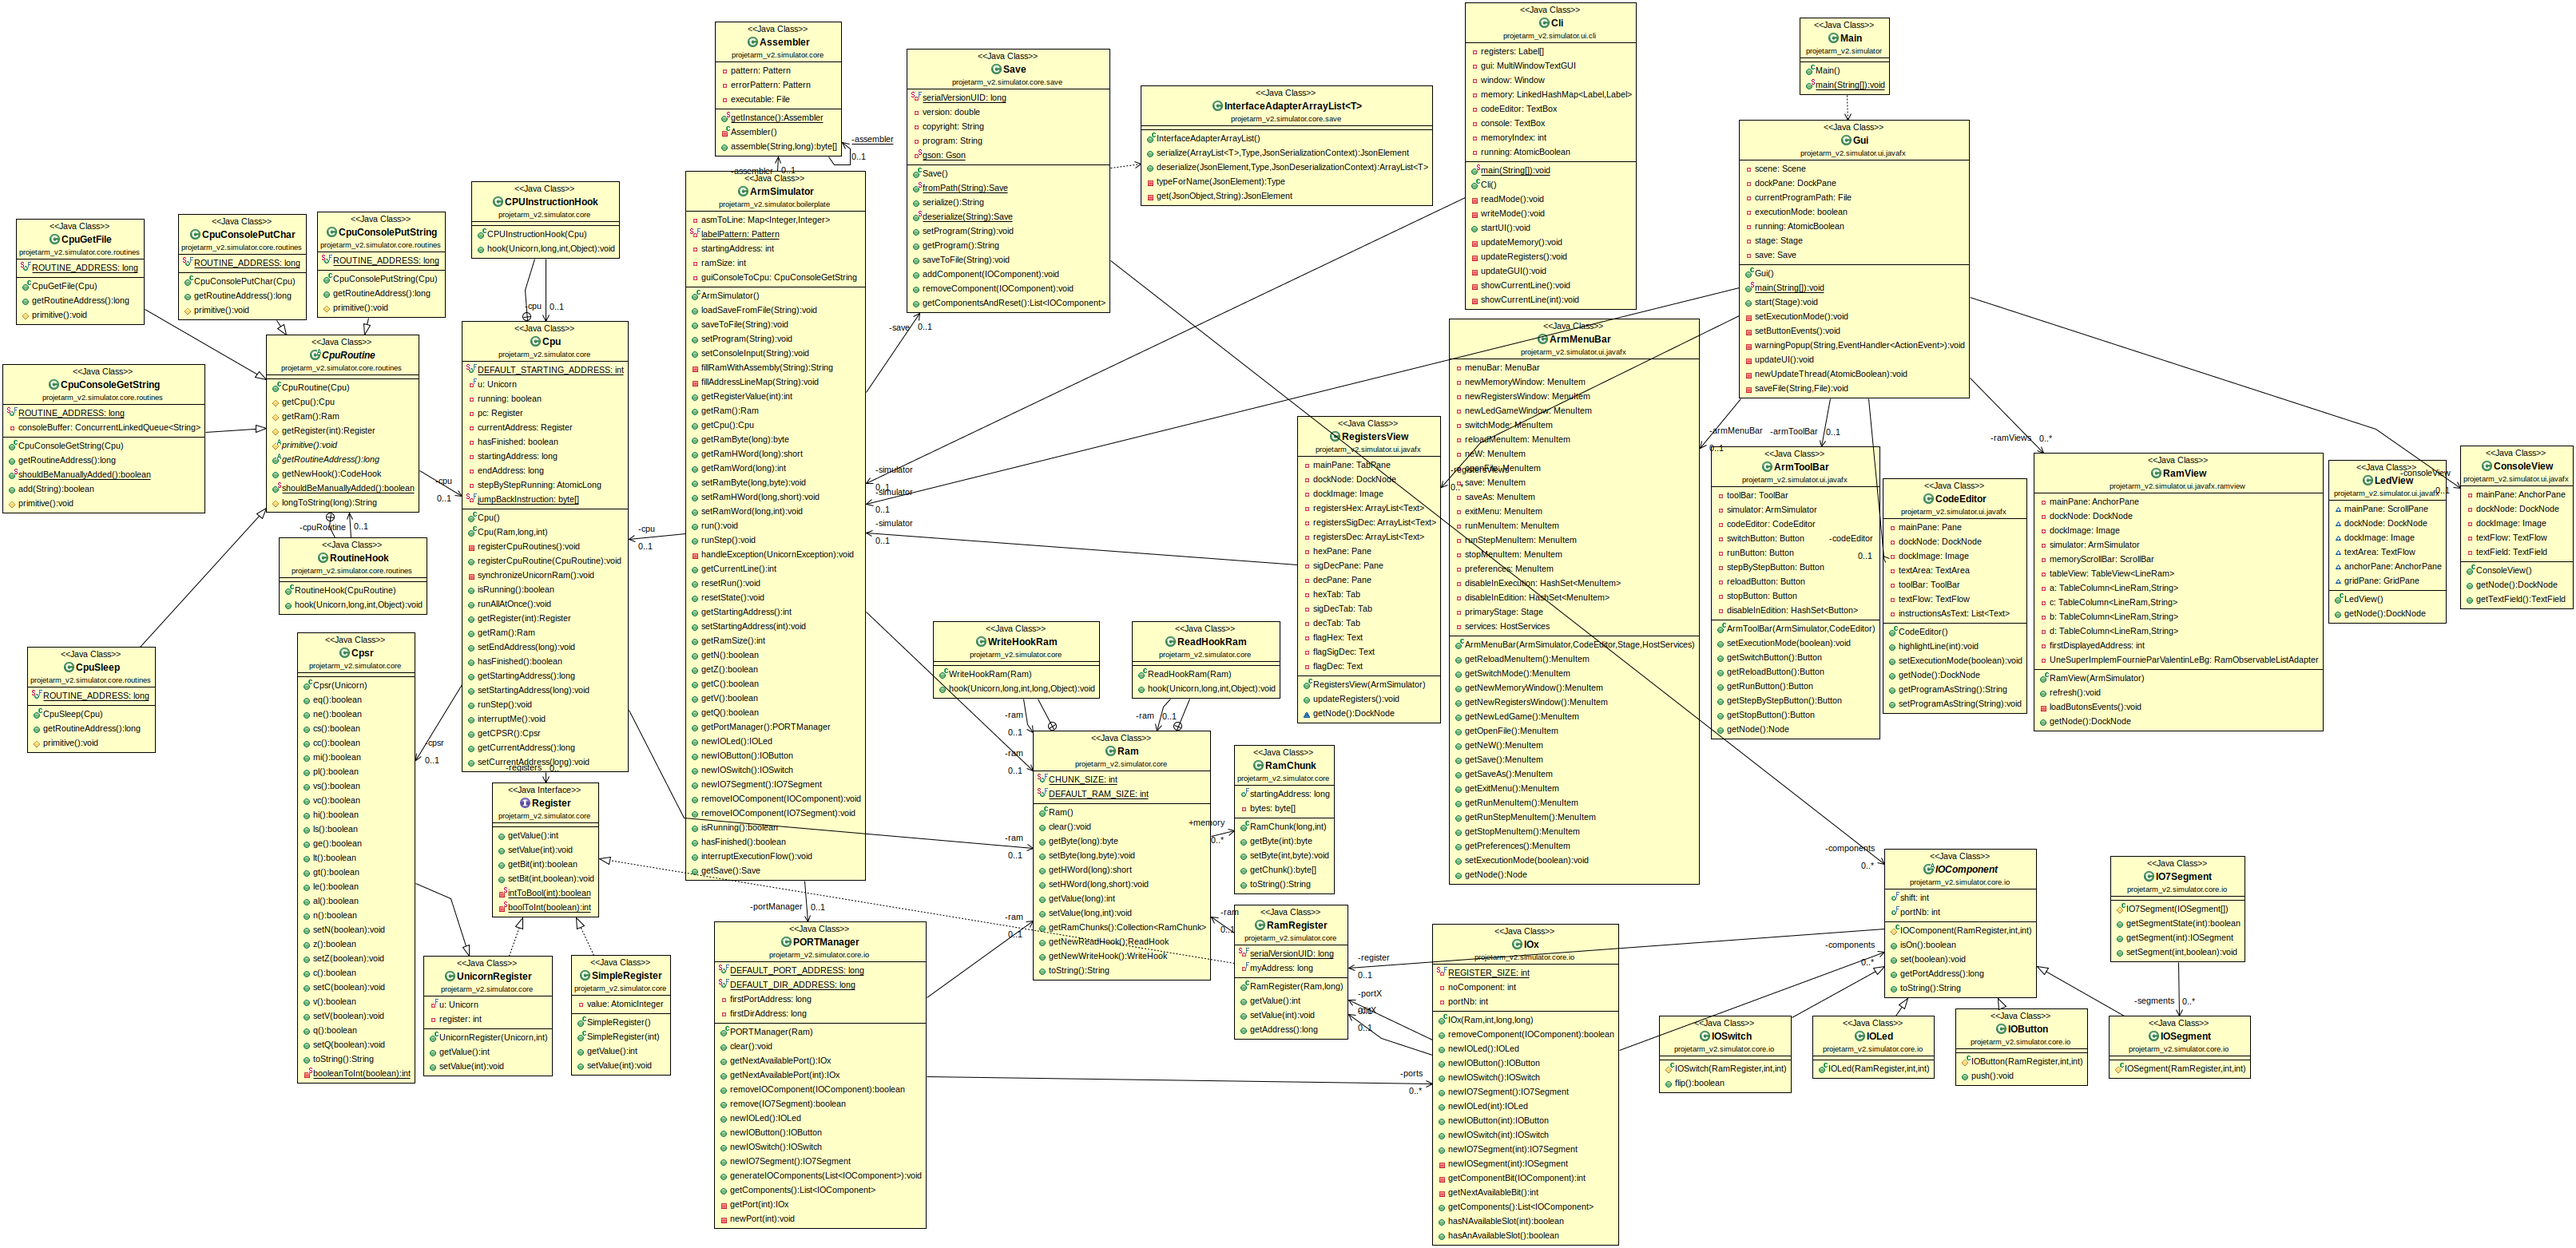
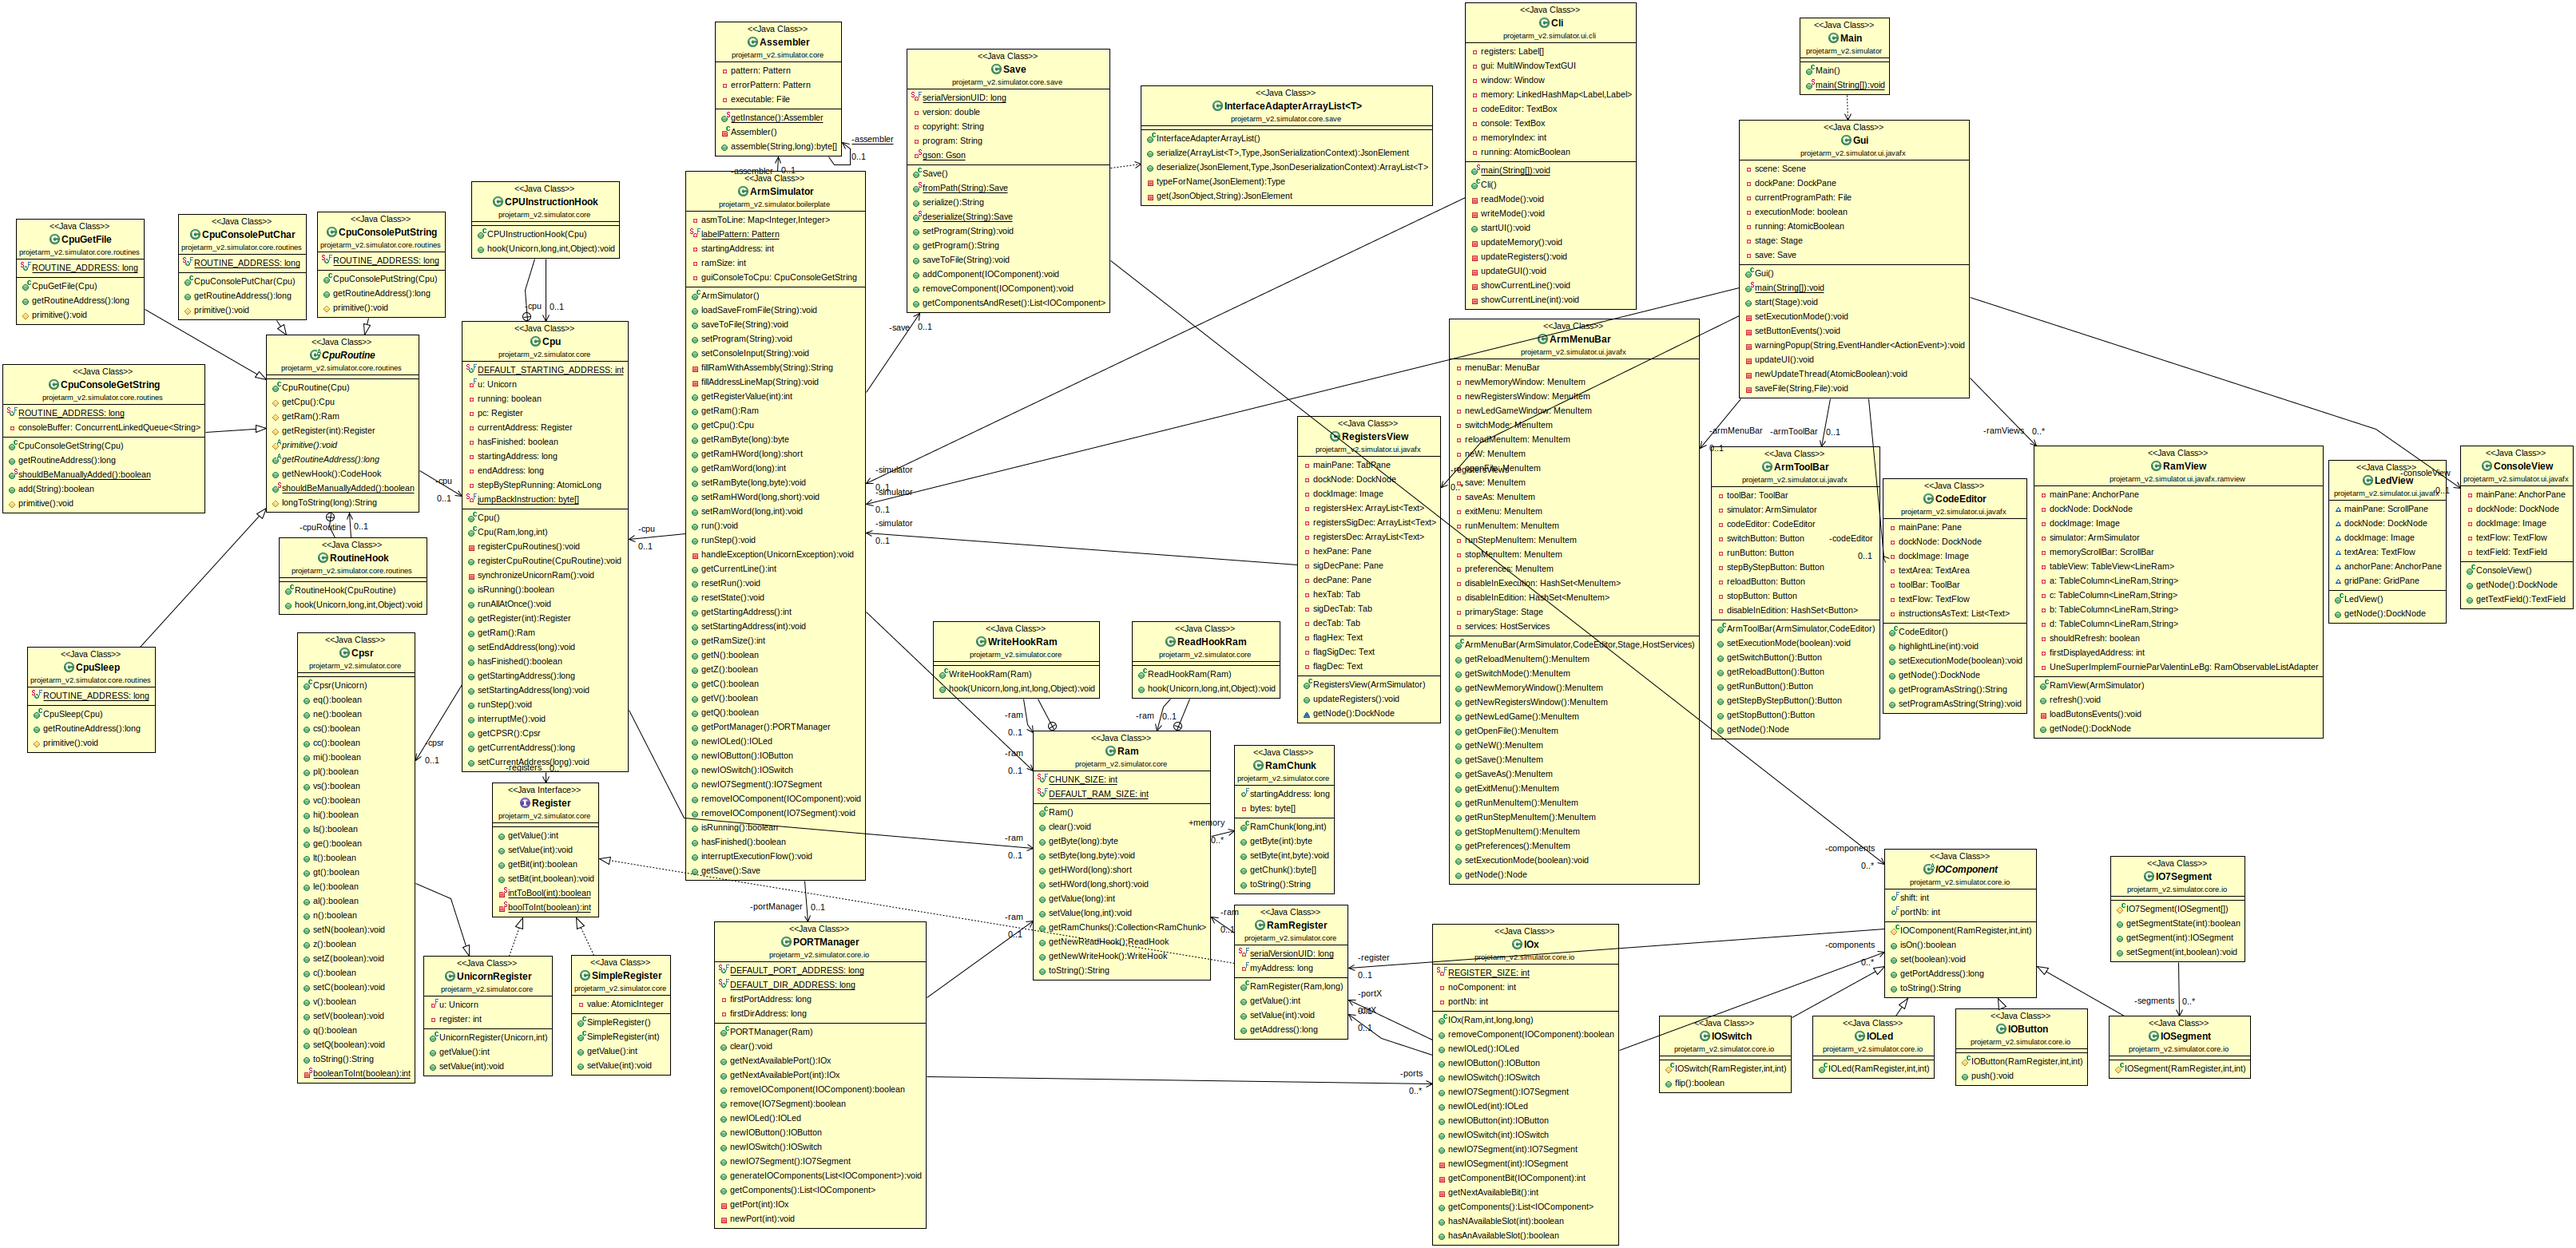
Still working on the lovely RamView <3

Changed region(s): [[0.7752, 0.3378, 0.8992, 0.6142]]

diff --git a/src/resources/style.css b/src/resources/style.css
@@ -106,5 +106,17 @@
 	-fx-border-color: #34495e;
 }
 
+.table-row-cell:empty {
+    -fx-background: #f4f4f4;
+    -fx-border-color: #f4f4f4;
+}
 
+.table-view {
+	-fx-background-color: transparent, -fx-control-inner-background;
+    -fx-background-insets: 0, 1;
+    -fx-padding: 1;
+}
 
+.table-row-cell:empty .table-cell {
+    -fx-border-width: 0px;
+}

diff --git a/src/projetarm_v2/simulator/ui/javafx/ramview/RamView.java b/src/projetarm_v2/simulator/ui/javafx/ramview/RamView.java
@@ -1,5 +1,7 @@
 package projetarm_v2.simulator.ui.javafx.ramview;
 
+import javafx.beans.binding.Bindings;
+import javafx.beans.value.ObservableValue;
 import javafx.fxml.FXMLLoader;
 import javafx.scene.control.*;
 import javafx.scene.control.cell.PropertyValueFactory;
@@ -31,6 +33,7 @@ public class RamView {
     private TableColumn<LineRam,String> b;
     private TableColumn<LineRam,String> d;
 
+    private boolean shouldRefresh = true;
     
     private int firstDisplayedAddress = 0x1000;
 
@@ -60,6 +63,16 @@ public class RamView {
         this.tableView.setItems(UneSuperImplemFournieParValentinLeBg);
         this.tableView.setEditable(true);
         
+        this.tableView.setOnKeyPressed(event -> {
+            TablePosition<LineRam, ?> pos = this.tableView.getFocusModel().getFocusedCell() ;
+            if (pos != null && (event.getCode().isDigitKey() || event.getCode().isLetterKey())) {
+                this.tableView.edit(pos.getRow(), pos.getTableColumn());
+            }
+        });
+
+        // single cell selection mode
+        tableView.getSelectionModel().setCellSelectionEnabled(true);
+
         a = new TableColumn<LineRam, String>("a");
         a.setCellFactory(TextFieldTableCell.forTableColumn());
         a.setCellValueFactory(
@@ -117,7 +130,7 @@ public class RamView {
     		Aaddress = this.firstDisplayedAddress;
     		Baddress = this.firstDisplayedAddress+4;
     		Caddress = this.firstDisplayedAddress+8;
-    		Daddress = this.firstDisplayedAddress+16;
+    		Daddress = this.firstDisplayedAddress+12;
     	}
     	a.setText("0x" + Integer.toHexString(Aaddress));
     	b.setText("0x" + Integer.toHexString(Baddress));
@@ -133,14 +146,25 @@ public class RamView {
         memoryScrollBar.setValue(this.firstDisplayedAddress);
         memoryScrollBar.setUnitIncrement(1);
         memoryScrollBar.setMax(2 *1024*1024); //TODO: set proper value
-
-        memoryScrollBar.setOnScroll((ScrollEvent scrollEvent) -> {
+        
+        memoryScrollBar.valueProperty().addListener((ObservableValue<? extends Number> ov, 
+                Number old_val, Number new_val) -> {
+                    this.firstDisplayedAddress = new_val.intValue();
+                    this.UneSuperImplemFournieParValentinLeBg.setOffset(firstDisplayedAddress);
+                    this.refresh();
+        });
+        
+        tableView.setOnScroll((ScrollEvent event) -> {
+        	if (event.getDeltaY() < 0) {
+        		memoryScrollBar.setValue(this.firstDisplayedAddress + 1);
+        	} else {
+        		memoryScrollBar.setValue(this.firstDisplayedAddress - 1);
+        	}
             this.firstDisplayedAddress = (int) memoryScrollBar.getValue();
             this.UneSuperImplemFournieParValentinLeBg.setOffset(firstDisplayedAddress);
             this.refresh();
         });
- 
-
+        
         Button button8Bit = (Button) mainPane.lookup("#button8Bit");
     	Button button16Bit = (Button) mainPane.lookup("#button16Bit");
     	Button button32Bit = (Button) mainPane.lookup("#button32Bit");
